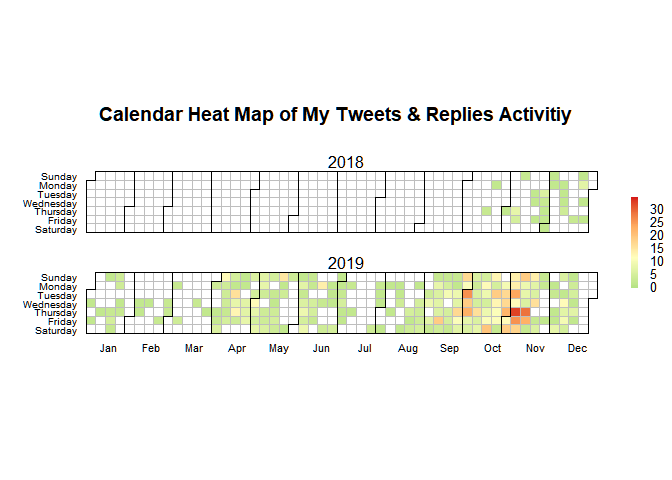
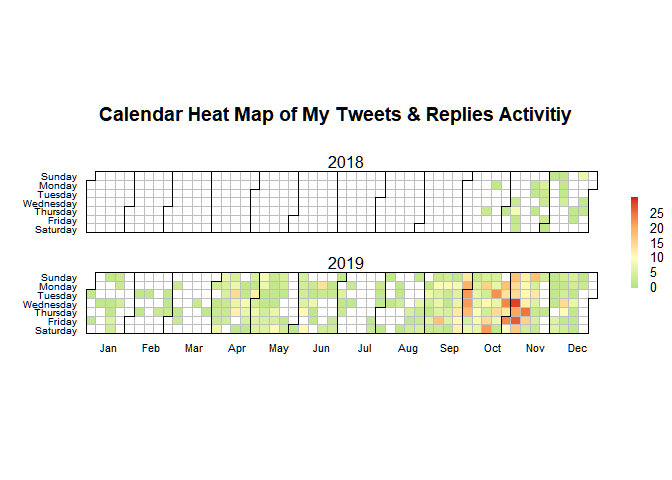
fix the time zone

diff --git a/2019-12-20_heatmap/README.html b/2019-12-20_heatmap/README.html
@@ -371,25 +371,9 @@ summary {
 
 
 <pre class="r"><code>library(rtweet)
-library(lubridate)</code></pre>
-<pre><code>## 
-## Attaching package: &#39;lubridate&#39;</code></pre>
-<pre><code>## The following object is masked from &#39;package:base&#39;:
-## 
-##     date</code></pre>
-<pre class="r"><code>library(dplyr)</code></pre>
-<pre><code>## 
-## Attaching package: &#39;dplyr&#39;</code></pre>
-<pre><code>## The following objects are masked from &#39;package:lubridate&#39;:
-## 
-##     intersect, setdiff, union</code></pre>
-<pre><code>## The following objects are masked from &#39;package:stats&#39;:
-## 
-##     filter, lag</code></pre>
-<pre><code>## The following objects are masked from &#39;package:base&#39;:
-## 
-##     intersect, setdiff, setequal, union</code></pre>
-<pre class="r"><code>source(&quot;https://raw.githubusercontent.com/iascchen/VisHealth/master/R/calendarHeat.R&quot;)</code></pre>
+suppressMessages(library(lubridate))
+suppressMessages(library(dplyr))
+source(&quot;https://raw.githubusercontent.com/iascchen/VisHealth/master/R/calendarHeat.R&quot;)</code></pre>
 <pre class="r"><code>token &lt;- create_token(
   app = &quot;xxx&quot;,
   consumer_key = &quot;xxx&quot;,
@@ -405,12 +389,12 @@ tweet_list &lt;- get_timeline(targeted_user,n = 3000)</code></pre>
 <pre><code>## # A tibble: 6 x 90
 ##   user_id status_id created_at          screen_name text  source
 ##   &lt;chr&gt;   &lt;chr&gt;     &lt;dttm&gt;              &lt;chr&gt;       &lt;chr&gt; &lt;chr&gt; 
-## 1 345609~ 12080702~ 2019-12-20 17:02:56 zhiiiyang   @R_b~ Twitt~
-## 2 345609~ 12075771~ 2019-12-19 08:23:23 zhiiiyang   &quot;@ja~ Twitt~
-## 3 345609~ 12075711~ 2019-12-19 07:59:20 zhiiiyang   &quot;If ~ Twitt~
-## 4 345609~ 12075426~ 2019-12-19 06:06:21 zhiiiyang   @Tim~ Twitt~
-## 5 345609~ 12075395~ 2019-12-19 05:53:50 zhiiiyang   @gua~ Twitt~
-## 6 345609~ 12075328~ 2019-12-19 05:27:22 zhiiiyang   &quot;@sk~ Twitt~
+## 1 345609~ 12092492~ 2019-12-23 23:07:36 zhiiiyang   @eri~ Twitt~
+## 2 345609~ 12092283~ 2019-12-23 21:44:37 zhiiiyang   @and~ Twitt~
+## 3 345609~ 12089873~ 2019-12-23 05:46:49 zhiiiyang   &quot;Wan~ Twitt~
+## 4 345609~ 12086472~ 2019-12-22 07:15:44 zhiiiyang   Her ~ Twitt~
+## 5 345609~ 12080702~ 2019-12-20 17:02:56 zhiiiyang   @R_b~ Twitt~
+## 6 345609~ 12075771~ 2019-12-19 08:23:23 zhiiiyang   &quot;@ja~ Twitt~
 ## # ... with 84 more variables: display_text_width &lt;dbl&gt;,
 ## #   reply_to_status_id &lt;chr&gt;, reply_to_user_id &lt;chr&gt;,
 ## #   reply_to_screen_name &lt;chr&gt;, is_quote &lt;lgl&gt;, is_retweet &lt;lgl&gt;,
@@ -448,7 +432,8 @@ tweet_list &lt;- get_timeline(targeted_user,n = 3000)</code></pre>
 <div id="retweet-lists" class="section level4">
 <h4>retweet lists</h4>
 <pre class="r"><code>tweet_list &lt;- tweet_list %&gt;% 
-  mutate(week = week(created_at),
+  mutate(created_at = with_tz(created_at, tzone = &quot;America/Los_Angeles&quot;),
+         week = week(created_at),
          weekday = wday(created_at, label = TRUE),
          year = year(created_at), 
          month = month(created_at, label = TRUE),
@@ -463,7 +448,7 @@ tweet_list &lt;- get_timeline(targeted_user,n = 3000)</code></pre>
          retweets = sum(retweet_count[original==TRUE]))</code></pre>
 <pre class="r"><code>calendarHeat(tweet_list$date, tweet_list$activity, 
              ncolors = 99, color = &quot;g2r&quot;, varname=&quot;My Tweets &amp; Replies Activitiy&quot;)</code></pre>
[2 lines of base64/hex data omitted]
 </div>
 </div>
 

diff --git a/2019-12-20_heatmap/readme.md b/2019-12-20_heatmap/readme.md
@@ -10,48 +10,8 @@ output:
 
 ```r
 library(rtweet)
-library(lubridate)
-```
-
-```
-## 
-## Attaching package: 'lubridate'
-```
-
-```
-## The following object is masked from 'package:base':
-## 
-##     date
-```
-
-```r
-library(dplyr)
-```
-
-```
-## 
-## Attaching package: 'dplyr'
-```
-
-```
-## The following objects are masked from 'package:lubridate':
-## 
-##     intersect, setdiff, union
-```
-
-```
-## The following objects are masked from 'package:stats':
-## 
-##     filter, lag
-```
-
-```
-## The following objects are masked from 'package:base':
-## 
-##     intersect, setdiff, setequal, union
-```
-
-```r
+suppressMessages(library(lubridate))
+suppressMessages(library(dplyr))
 source("https://raw.githubusercontent.com/iascchen/VisHealth/master/R/calendarHeat.R")
 ```
 
@@ -82,12 +42,12 @@ head(tweet_list)
 ## # A tibble: 6 x 90
 ##   user_id status_id created_at          screen_name text  source
 ##   <chr>   <chr>     <dttm>              <chr>       <chr> <chr> 
-## 1 345609~ 12080702~ 2019-12-20 17:02:56 zhiiiyang   @R_b~ Twitt~
-## 2 345609~ 12075771~ 2019-12-19 08:23:23 zhiiiyang   "@ja~ Twitt~
-## 3 345609~ 12075711~ 2019-12-19 07:59:20 zhiiiyang   "If ~ Twitt~
-## 4 345609~ 12075426~ 2019-12-19 06:06:21 zhiiiyang   @Tim~ Twitt~
-## 5 345609~ 12075395~ 2019-12-19 05:53:50 zhiiiyang   @gua~ Twitt~
-## 6 345609~ 12075328~ 2019-12-19 05:27:22 zhiiiyang   "@sk~ Twitt~
+## 1 345609~ 12092492~ 2019-12-23 23:07:36 zhiiiyang   @eri~ Twitt~
+## 2 345609~ 12092283~ 2019-12-23 21:44:37 zhiiiyang   @and~ Twitt~
+## 3 345609~ 12089873~ 2019-12-23 05:46:49 zhiiiyang   "Wan~ Twitt~
+## 4 345609~ 12086472~ 2019-12-22 07:15:44 zhiiiyang   Her ~ Twitt~
+## 5 345609~ 12080702~ 2019-12-20 17:02:56 zhiiiyang   @R_b~ Twitt~
+## 6 345609~ 12075771~ 2019-12-19 08:23:23 zhiiiyang   "@ja~ Twitt~
 ## # ... with 84 more variables: display_text_width <dbl>,
 ## #   reply_to_status_id <chr>, reply_to_user_id <chr>,
 ## #   reply_to_screen_name <chr>, is_quote <lgl>, is_retweet <lgl>,
@@ -128,7 +88,8 @@ head(tweet_list)
 
 ```r
 tweet_list <- tweet_list %>% 
-  mutate(week = week(created_at),
+  mutate(created_at = with_tz(created_at, tzone = "America/Los_Angeles"),
+         week = week(created_at),
          weekday = wday(created_at, label = TRUE),
          year = year(created_at), 
          month = month(created_at, label = TRUE),
